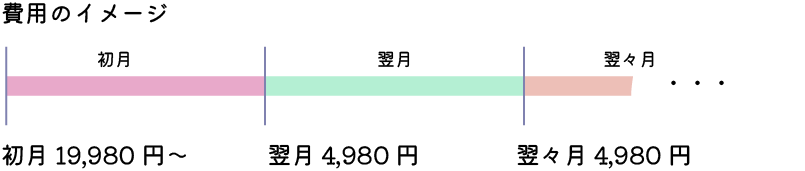
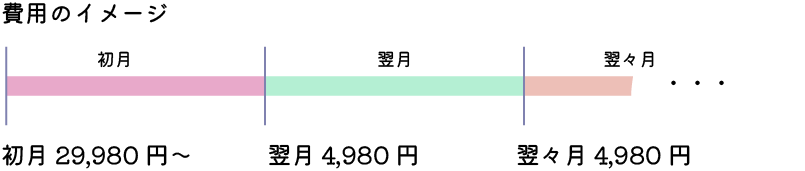
20230810

Changed region(s): [[0.0621, 0.848, 0.2484, 0.9942]]

diff --git a/src/components/Slide/Slide3.tsx b/src/components/Slide/Slide3.tsx
@@ -76,23 +76,6 @@ export const Slide3 = ({ toggleOpenFlyerSample }: { toggleOpenFlyerSample: (valu
 		},
 	};
 
-	// const flyImage = {
-	// 	height: mq.sp ? "initial" : "54vw",
-	// 	maxHeight: "420px",
-	// 	width: "65%",
-	// 	margin: "0 auto",
-	// 	marginTop: "1em",
-	// 	marginBottom: mq.sp ? "1.5em" : "initial",
-	// 	overflow: "hidden",
-	// 	filter: "drop-shadow(0.2em 0.2em 0.1em rgba(0, 0, 0, 0.6))",
-	// 	// cursor: "pointer",
-	// 	"&:hover": { opacity: 0.7 },
-	// 	// ${bp.sp} {
-	// 	//     height: initial;
-	// 	//     margin-bottom: 1.5em;
-	// 	// }
-	// };
-
 	const flyImage: CSSObject = {
 		width: "65%",
 		margin: "0 auto",
@@ -169,18 +152,6 @@ export const Slide3 = ({ toggleOpenFlyerSample }: { toggleOpenFlyerSample: (valu
 					</ExButton>
 				</Flex>
 			</Flex>
-
-			{/* <Modal
-				size="xl"
-				opened={openFlyerSample}
-				onClose={() => {
-					setOpenFlyerSample(false);
-				}}
-			>
-				<SlideFlyerSample setWinOpen={setOpenFlyerSample} />
-			</Modal> */}
-
-			{/* {openFlyerSample && <SlideFlyerSample setWinOpen={setOpenFlyerSample} />} */}
 		</>
 	);
 };

diff --git a/src/components/Slide/Slide4.tsx b/src/components/Slide/Slide4.tsx
@@ -27,7 +27,7 @@ export const Slide4 = () => {
 				}}
 			>
 				<span>当サービスの費用は、1プランのみです。 。</span> <br />
-				<span> 月額4,980円で、</span> <span>初回のみ14,980円〜になります。</span> <br />
+				<span> 月額4,980円で、</span> <span>初回のみ29,980円〜になります。</span> <br />
 			</Box>
 			<Box sx={image}>
 				<Box component={Image} src="/img/slide_4_Image.png" width={805} height={171} w="100%" alt="更新のイメージ図" sx={{ objectFit: "contain" }} />
